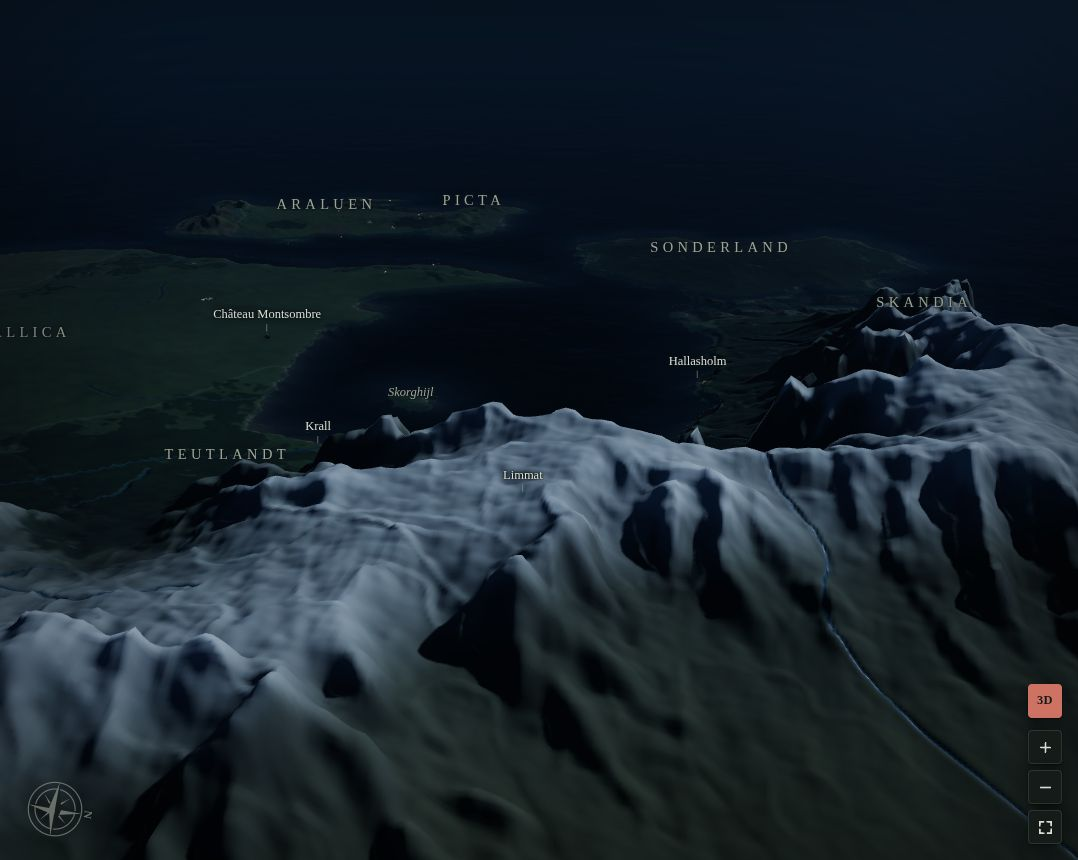
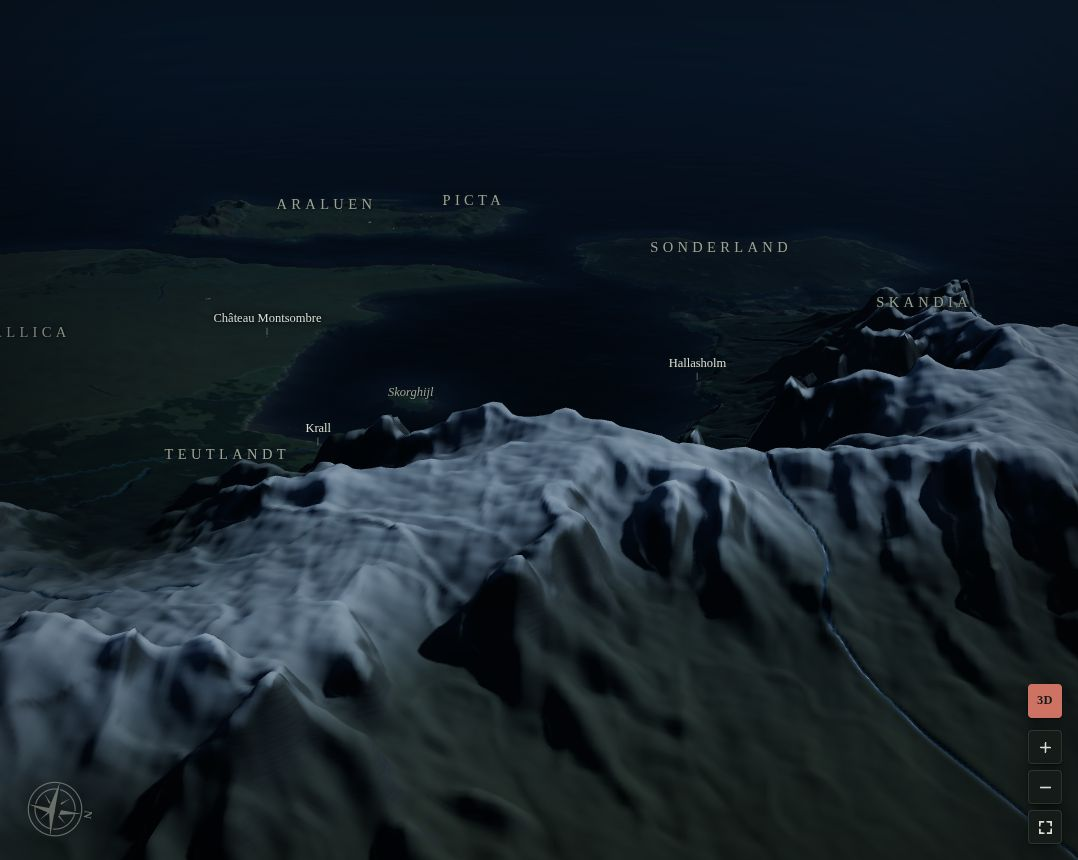
3D: Hallasholm weer op het land, nieuwe screenshots
- De markering van Hallasholm ligt in zee; de stad zocht de waterlijn via
  de hoogte, die daar onbetrouwbaar is, en stond half in het water. Nu:
  landinwaarts tot het land een halve eenheid aan één stuk land is, daar
  begint het strand, en de stad ligt daarachter.
- Het egaliseren rond een plaats aan zee trekt het land niet meer onder
  de waterlijn.
- docs/3d: zestien standpunten in beide thema's, met vier nieuwe
  (platteland, Zeeklif, Oostelijke kliffen, boerderij met molen).

Claude-Session: https://claude.ai/code/session_01UeC3JDAyvG8JujSEDQ5Bh4

diff --git a/3d-modellen.js b/3d-modellen.js
@@ -1050,7 +1050,7 @@ export function maakBouwer(omg){
     }
   }
 
-  return {rond,huis,dorp,pleinGebouw,schip,vloot,steiger,kade,zeeRichting,waterlijn,molen,boerderij,gehucht,bakken,lampjes,bomen,wegen,S,rivierOp:omg.rivierOp};
+  return {opLand,rond,huis,dorp,pleinGebouw,schip,vloot,steiger,kade,zeeRichting,waterlijn,molen,boerderij,gehucht,bakken,lampjes,bomen,wegen,S,rivierOp:omg.rivierOp};
 }
 
 /* ======================= generieke modellen per soort ======================= */
@@ -1511,9 +1511,12 @@ export const BOUWERS={
      begint */
   hallasholm:{info:{vlak:[.55,1.3,.7],open:1.8},bouw(B,b){
     const a=B.zeeRichting(b.cx,b.cy,2.5)??Math.PI/2;
-    const t=B.waterlijn(b.cx,b.cy,a);
-    /* het midden ligt een eindje van de waterlijn: daartussen het strand */
-    const mx=b.cx+Math.cos(a)*(t-.45), my=b.cy+Math.sin(a)*(t-.45);
+    /* De markering ligt in zee. Landinwaarts (tegen a in) tot het land
+       echt land is, een halve eenheid aan één stuk; daar begint het strand,
+       en het midden van de stad ligt daar nog een eind achter. */
+    let t=0, aaneen=0;
+    while(t<4&&aaneen<.5){ t+=.02; aaneen=B.opLand(b.cx-Math.cos(a)*t,b.cy-Math.sin(a)*t)?aaneen+.02:0; }
+    const strand=t-.5, mx=b.cx-Math.cos(a)*(strand+.55), my=b.cy-Math.sin(a)*(strand+.55);
     const c=B.rond(mx,my,a+Math.PI/2,31);
     /* de Grote Zaal: lang, hoog, van hout, met gekruiste drakenkoppen op de
        nokken en een trap ervoor */

diff --git a/3d-grond.js b/3d-grond.js
@@ -426,12 +426,16 @@ function afwerking(G,T){
       const q=y*RW+x; if(land[q]&&Math.hypot(x/RES-M-cx,y/RES-M-cy)<R0){s+=h[q];n++;}
     }
     if(!n)continue;
+    /* een plaats aan zee: het vlak komt niet lager dan het land er al
+       lag, anders zakt de kust onder water */
     const doel=s/n;
+    const nooitLager=Math.max(doel,0);
     for(let y=y0;y<=y1;y++)for(let x=x0;x<=x1;x++){
       const q=y*RW+x; if(!land[q])continue;
       const d=Math.hypot(x/RES-M-cx,y/RES-M-cy); if(d>=R1)continue;
       const w=d<R0?1:1-glad((d-R0)/(R1-R0));
-      h[q]+=(doel-h[q])*w*kracht;
+      const nh=h[q]+(doel-h[q])*w*kracht;
+      h[q]=doel<.02?Math.max(nh,Math.min(h[q],nooitLager+.02)):nh;
     }
   }
   /* Een bergmeer (Mizu Umi Bakudai): een kom in het land, met de waterspiegel
